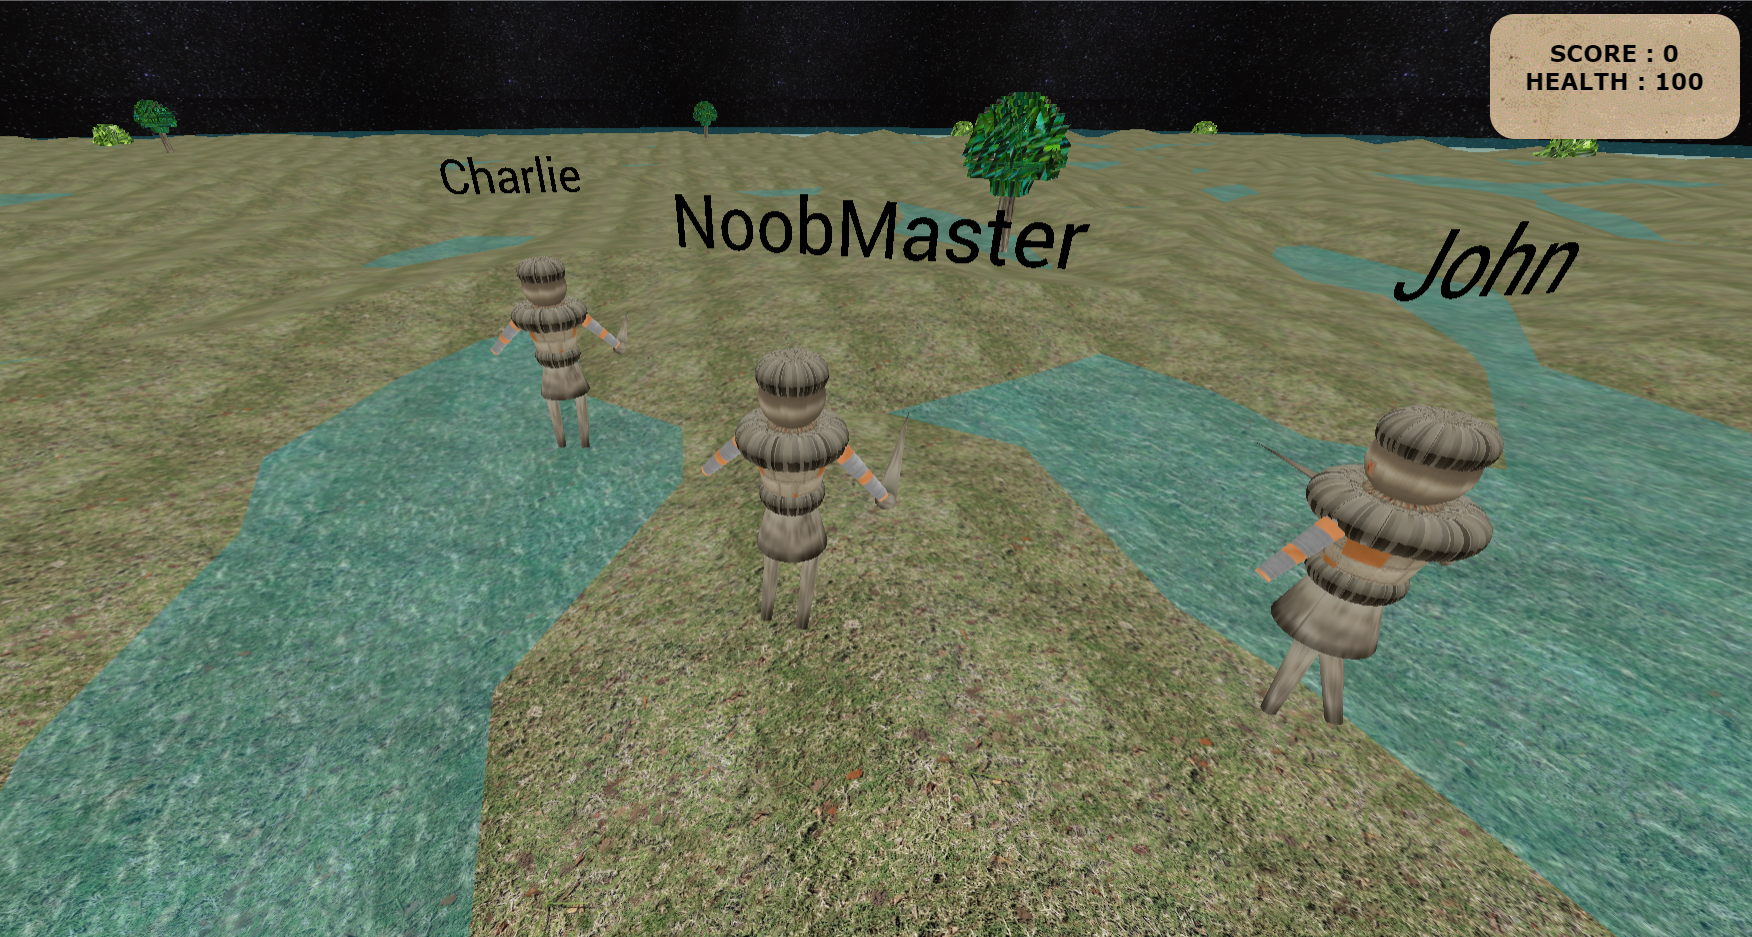
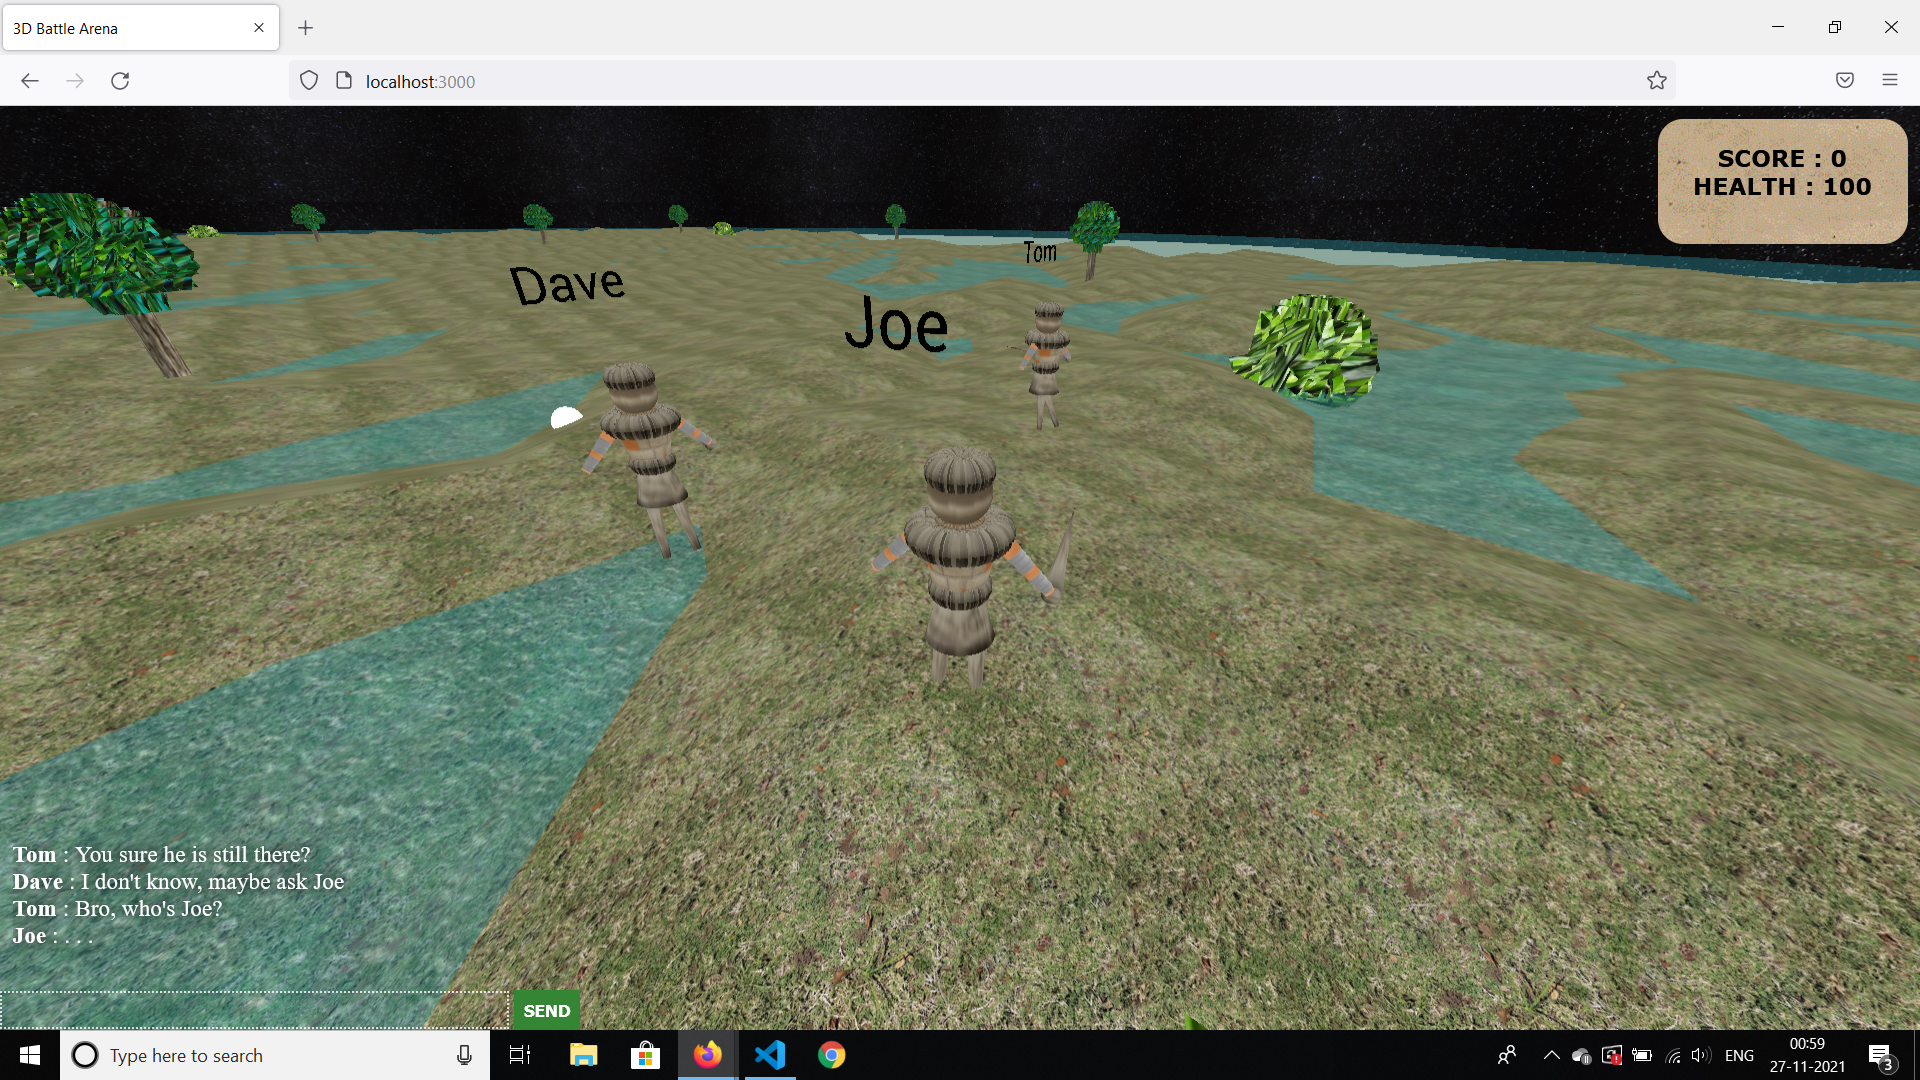
Added real time chat feature to multiplayer mode

diff --git a/client/src/multiplayergame.js b/client/src/multiplayergame.js
@@ -35,6 +35,15 @@ export class Multiplayer{
               <br/>
               PRESS ANY KEY TO START
             </div>
+            <div class="chat">
+              <div class="chatsend" id="chatsend">
+                <div class="messages" id="messages"></div>
+                <form id="messageform">
+                <input type="text" id="chatmessage"/>
+                <button type="submit" id="chatsender">SEND</button>
+                <form>
+              </div>
+            </div>
             <canvas id="main"></canvas>`;
 
     this.scene = new THREE.Scene();
@@ -65,13 +74,20 @@ export class Multiplayer{
     this.player = new Player(this.scene, this.qtree, this.chunk, this.username, Math.random()*1024 - 512, Math.random()*1024 - 512, this.texture);
     //this.scene.add(this.player.weapons[0].tool);
     this.player.draw();
-    this.socket.emit('joined', {id: this.player.id, username: this.player.username, posx: this.player.posx, posz: this.player.posz});
+    this.socket.emit('joined', {id: this.player.id, username: this.player.username, posx: this.player.posx, posz: this.player.posz, health: this.player.health});
     this.playermap[this.player.id] = this.player;
     document.getElementById('label1').innerHTML= `SCORE : ${this.player.score} <br/> HEALTH : ${this.player.health}` ;
 
     document.addEventListener("keydown", this.onDocumentKeyDown, false);
     document.addEventListener("keyup", this.onDocumentKeyUp, false);
-
+    document.getElementById('messageform').onsubmit= (e)=>{
+      e.preventDefault();
+      const message = document.getElementById('chatmessage').value;
+      if(message.length >0 ){
+        this.socket.emit('chatmessage', {sender: this.player.username, message: message});
+      }
+      document.getElementById('chatmessage').value = "";
+    }
 
     let stateCheck = setInterval(() => { 
       if (document. readyState === 'complete') {
@@ -113,7 +129,14 @@ export class Multiplayer{
                 }
             });
         }
-      });     
+      });
+      this.socket.on('chatmessage', (data)=> {
+        let st = "";
+        for(let i=0; i<data.length; i++){
+          st = st + `<b>${data[i][0]}</b> : ${data[i][1]}<br/>`;
+        }
+        document.getElementById('messages').innerHTML = st;
+      })     
   }
 
   animate() {

diff --git a/server/index.js b/server/index.js
@@ -11,35 +11,9 @@ app.get('/', (req, res) => {
     res.send("Its working");
 });
 
-const points = [];
-const trees = [];
-const bush = [];
-const ENEMY_COUNT = 10;
-const OBSTACLE_COUNT = 10;
-for(let i=0; i<ENEMY_COUNT; i++){
-    points.push({
-        id: i,
-        posx: Math.random()*1024 - 512, 
-        posz: Math.random()*1024 - 512
-    });
-}
-for(let i=0; i<OBSTACLE_COUNT; i++){
-    trees.push({
-        id: i,
-        posx: Math.random()*1024 - 512, 
-        posz: Math.random()*1024 - 512
-    });
-}
-for(let i=0; i<OBSTACLE_COUNT; i++){
-    bush.push({
-        id: i,
-        posx: Math.random()*1024 - 512, 
-        posz: Math.random()*1024 - 512
-    });
-}
-
 const players = {};
 players['id'] = [];
+const chat = [];
 
 io.on('connection', async(socket) => {
     console.log('A user '+ socket.handshake.auth.username +' connected with email ID ', socket.handshake.auth.email);
@@ -53,12 +27,17 @@ io.on('connection', async(socket) => {
             players[val.id].posx = val.posx;
             players[val.id].posz = val.posz;
         });
+        socket.on('chatmessage', (data)=> {
+            if(chat.length >= 5){    chat.shift();  }
+            chat.push([data.sender, data.message]);
+            io.emit(chat);
+        })
     });
 });
 
 setInterval(()=>{
     io.emit('players', players);
-    console.log(players)
+    io.emit('chatmessage', chat);
 }, 1000);
 
 server.listen(PORT, () => {

diff --git a/client/style.css b/client/style.css
@@ -127,3 +127,45 @@
   width: 98vw;
   margin-top: 0px;
 }
+.chat{
+  position: fixed;
+  bottom:  0px;
+  left: 0px;
+  height: 200px;
+  width: 300px;
+  z-index: 12;
+}
+
+.chatsend{
+  position: fixed;
+  bottom:  0px;
+  left: 0px;
+}
+#chatmessage{
+  height: 25px;
+  width: 400px;
+}
+.messages{
+  overflow:hidden;
+  height: 120px;
+  width: 400px;
+  font-size: 14pt;
+  margin-left: 10px;
+  color: white;
+  text-shadow: black 0px 0px 10px;
+}
+#chatsender{
+  padding: 8px 8px 8px 8px;
+  font-weight: bold;
+  color: white;
+  background-color: rgb(52, 134, 52);
+  outline: none;
+  border: none;
+}
+#chatmessage{
+  color: white;
+  font-weight: bold;
+  background: transparent;
+  border: 2px dotted white;
+  text-align: right;
+}
